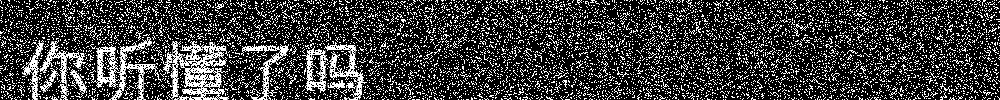
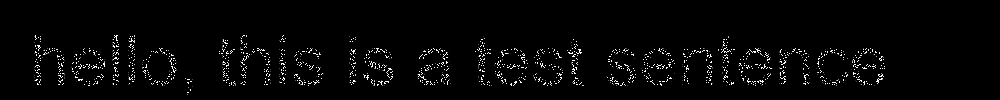
work done

Changed region(s): [[0.0, 0.0, 1.0, 1.0]]

diff --git a/ImgEdit.py b/ImgEdit.py
@@ -12,8 +12,7 @@ b, g, r, a = 255, 255, 255, 0
 
 # Use cv2.FONT_HERSHEY_XXX to write English.
 
-
-def get_img():
+def put_text(text):
     my_path = os.path.dirname(__file__)
     fontpath = my_path + "/fonts/English.ttf"  # <== 这里是宋体路径
     img1 = np.zeros((height, width, 3), np.uint8)
@@ -21,24 +20,32 @@ def get_img():
 
     img_pil = Image.fromarray(img)
     draw = ImageDraw.Draw(img_pil)
-    draw.text((20, 25),  "你听懂了吗", stroke_height=1, font=font, fill=(b, g, r))
+    draw.text((30, 10), text, stroke_height=1, font=font, fill=(b, g, r))
     img1 = np.array(img_pil)
     return img1
 
+def draw_circle(input):
+    tmp = input
+    for x in range (0,10):
+        w = random.randint(0,width)
+        h = random.randint(0,height)
+        print(h,w)
+        tmp = cv2.circle(img, (w,h), 30, (255, 255, 255), -1)
 
-img = get_img()
+    return tmp
 
-count = 0
-for x in range (0,height):
-    for y in range (0,width):
-        curr_val = img[x][y]
-        rand = random.randint(0,100)
-        if rand<20:
-            img[x][y] = [255,255,255]
-            count+=1
-        if rand>80:
-            img[x][y] = [0, 0, 0]
-            count += 1
 
-# Display
+
+def scatter():
+    count = 0
+    for x in range (0,height):
+        for y in range (0,width):
+            curr_val = img[x][y]
+            rand = random.randint(0,100)
+            if rand>20:
+                img[x][y] = [0, 0, 0]
+
+img = put_text("hello, this is a test sentence")
+#img = draw_circle(img)
+scatter()
 cv2.imwrite("res.png", img)
